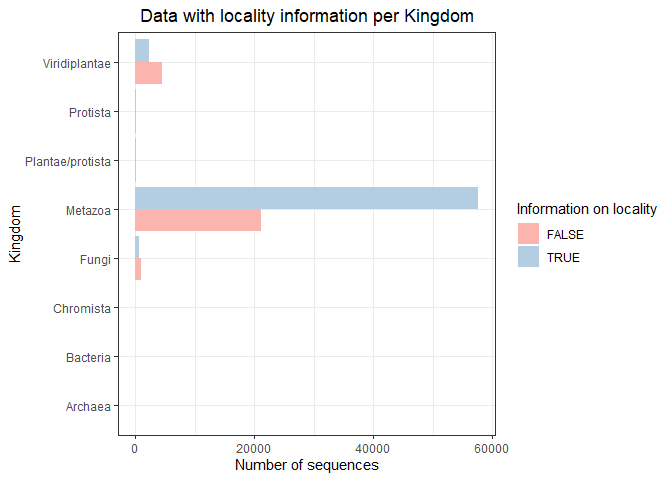
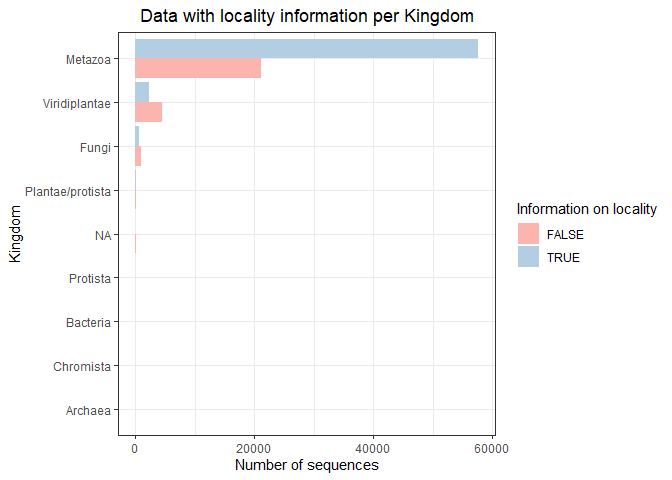
order bar plots in descending order and knit the git notebook for bold

diff --git a/scripts/4_EDA_bold.md b/scripts/4_EDA_bold.md
@@ -3,40 +3,43 @@ EDA BOLD DATA
 
 Number of sequences per kingdom:
 
-    ##            kingdom   n()
-    ## 1          Archaea     2
-    ## 2         Bacteria    32
-    ## 3        Chromista     5
-    ## 4            Fungi  1670
-    ## 5          Metazoa 78636
-    ## 6 Plantae/protista   229
-    ## 7         Protista   153
-    ## 8    Viridiplantae  6955
+    ##            kingdom Number_sequences
+    ## 1          Metazoa            78632
+    ## 2    Viridiplantae             6955
+    ## 3            Fungi             1670
+    ## 4 Plantae/protista              229
+    ## 5               NA               79
+    ## 6         Protista               78
+    ## 7         Bacteria               32
+    ## 8        Chromista                5
+    ## 9          Archaea                2
 
-![](4_EDA_bold_files/figure-gfm/kingplot-1.png)<!-- -->![](4_EDA_bold_files/figure-gfm/kingplot-2.png)<!-- -->![](4_EDA_bold_files/figure-gfm/kingplot-3.png)<!-- -->
+![](4_EDA_bold_files/figure-gfm/kingplot-1.png)<!-- -->![](4_EDA_bold_files/figure-gfm/kingplot-2.png)<!-- -->
 
 Information available for latitude and longitude:
 
-    ## # A tibble: 16 x 3
-    ## # Groups:   kingdom [8]
+    ## # A tibble: 18 x 3
+    ## # Groups:   kingdom [9]
     ##    kingdom          latlon_info num_seqs
     ##    <chr>            <lgl>          <int>
-    ##  1 Archaea          FALSE              1
-    ##  2 Archaea          TRUE               1
-    ##  3 Bacteria         FALSE             28
-    ##  4 Bacteria         TRUE               4
-    ##  5 Chromista        TRUE               5
-    ##  6 Chromista        FALSE              0
-    ##  7 Fungi            FALSE            860
-    ##  8 Fungi            TRUE             810
-    ##  9 Metazoa          FALSE           8559
-    ## 10 Metazoa          TRUE           70077
-    ## 11 Plantae/protista FALSE            160
-    ## 12 Plantae/protista TRUE              69
-    ## 13 Protista         FALSE            111
-    ## 14 Protista         TRUE              42
-    ## 15 Viridiplantae    FALSE           3401
-    ## 16 Viridiplantae    TRUE            3554
+    ##  1 Metazoa          FALSE           8559
+    ##  2 Metazoa          TRUE           70073
+    ##  3 Viridiplantae    FALSE           3401
+    ##  4 Viridiplantae    TRUE            3554
+    ##  5 Fungi            FALSE            860
+    ##  6 Fungi            TRUE             810
+    ##  7 Plantae/protista FALSE            160
+    ##  8 Plantae/protista TRUE              69
+    ##  9 NA               FALSE             64
+    ## 10 NA               TRUE              15
+    ## 11 Protista         FALSE             47
+    ## 12 Protista         TRUE              31
+    ## 13 Bacteria         FALSE             28
+    ## 14 Bacteria         TRUE               4
+    ## 15 Chromista        TRUE               5
+    ## 16 Chromista        FALSE              0
+    ## 17 Archaea          FALSE              1
+    ## 18 Archaea          TRUE               1
 
 ![](4_EDA_bold_files/figure-gfm/kin_latlon_plot-1.png)<!-- -->
 
@@ -44,26 +47,28 @@ Information available for latitude and longitude:
 
 Information available for locality:
 
-    ## # A tibble: 16 x 3
-    ## # Groups:   kingdom [8]
-    ##    kingdom          locality_info num_seqs
-    ##    <chr>            <lgl>            <int>
-    ##  1 Archaea          FALSE                1
-    ##  2 Archaea          TRUE                 1
-    ##  3 Bacteria         FALSE                7
-    ##  4 Bacteria         TRUE                25
-    ##  5 Chromista        FALSE                1
-    ##  6 Chromista        TRUE                 4
-    ##  7 Fungi            FALSE             1047
-    ##  8 Fungi            TRUE               623
-    ##  9 Metazoa          FALSE            21069
-    ## 10 Metazoa          TRUE             57567
-    ## 11 Plantae/protista FALSE               77
-    ## 12 Plantae/protista TRUE               152
-    ## 13 Protista         FALSE               83
-    ## 14 Protista         TRUE                70
-    ## 15 Viridiplantae    FALSE             4587
-    ## 16 Viridiplantae    TRUE              2368
+    ## # A tibble: 18 x 4
+    ## # Groups:   kingdom [9]
+    ##    kingdom          locality_info num_seqs total$Number_sequences
+    ##    <chr>            <lgl>            <int>                  <int>
+    ##  1 Metazoa          FALSE            21069                  78632
+    ##  2 Metazoa          TRUE             57563                  78632
+    ##  3 Viridiplantae    FALSE             4587                   6955
+    ##  4 Viridiplantae    TRUE              2368                   6955
+    ##  5 Fungi            FALSE             1047                   1670
+    ##  6 Fungi            TRUE               623                   1670
+    ##  7 Plantae/protista FALSE               77                    229
+    ##  8 Plantae/protista TRUE               152                    229
+    ##  9 NA               FALSE               57                     79
+    ## 10 NA               TRUE                22                     79
+    ## 11 Protista         FALSE               26                     78
+    ## 12 Protista         TRUE                52                     78
+    ## 13 Bacteria         FALSE                7                     32
+    ## 14 Bacteria         TRUE                25                     32
+    ## 15 Chromista        FALSE                1                      5
+    ## 16 Chromista        TRUE                 4                      5
+    ## 17 Archaea          FALSE                1                      2
+    ## 18 Archaea          TRUE                 1                      2
 
 ![](4_EDA_bold_files/figure-gfm/kin_loc_plot-1.png)<!-- -->
 
@@ -71,8 +76,8 @@ Information available for locality:
 
 Sequences from kingdom Metazoa
 
-    ## # A tibble: 13 x 2
-    ## # Groups:   phylum [13]
+    ## # A tibble: 12 x 2
+    ## # Groups:   phylum [12]
     ##    phylum          num_seqs
     ##    <chr>              <int>
     ##  1 Arthropoda         60806
@@ -87,7 +92,6 @@ Sequences from kingdom Metazoa
     ## 10 Acanthocephala        41
     ## 11 Porifera               9
     ## 12 Onychophora            4
-    ## 13 Phoronida              4
 
 ![](4_EDA_bold_files/figure-gfm/phyl_metplot-1.png)<!-- -->
 
@@ -130,18 +134,17 @@ phyl_fungi
 
 Sequences from kingdom Protista
 
-    ## # A tibble: 8 x 3
-    ## # Groups:   phylum [8]
+    ## # A tibble: 7 x 3
+    ## # Groups:   phylum [7]
     ##   phylum               kingdom          num_seqs
     ##   <chr>                <chr>               <int>
     ## 1 Rhodophyta           Plantae/protista      229
-    ## 2 Ochrophyta           Protista               75
-    ## 3 Heterokontophyta     Protista               46
-    ## 4 Chlorarachniophyceae Protista               12
-    ## 5 Bacillariophyta      Protista               10
-    ## 6 Ciliophora           Protista                6
-    ## 7 Pyrrophycophyta      Protista                3
-    ## 8 Foraminifera         Protista                1
+    ## 2 Heterokontophyta     Protista               46
+    ## 3 Chlorarachniophyceae Protista               12
+    ## 4 Bacillariophyta      Protista               10
+    ## 5 Ciliophora           Protista                6
+    ## 6 Pyrrophycophyta      Protista                3
+    ## 7 Foraminifera         Protista                1
 
 ![](4_EDA_bold_files/figure-gfm/unnamed-chunk-12-1.png)<!-- -->
 
